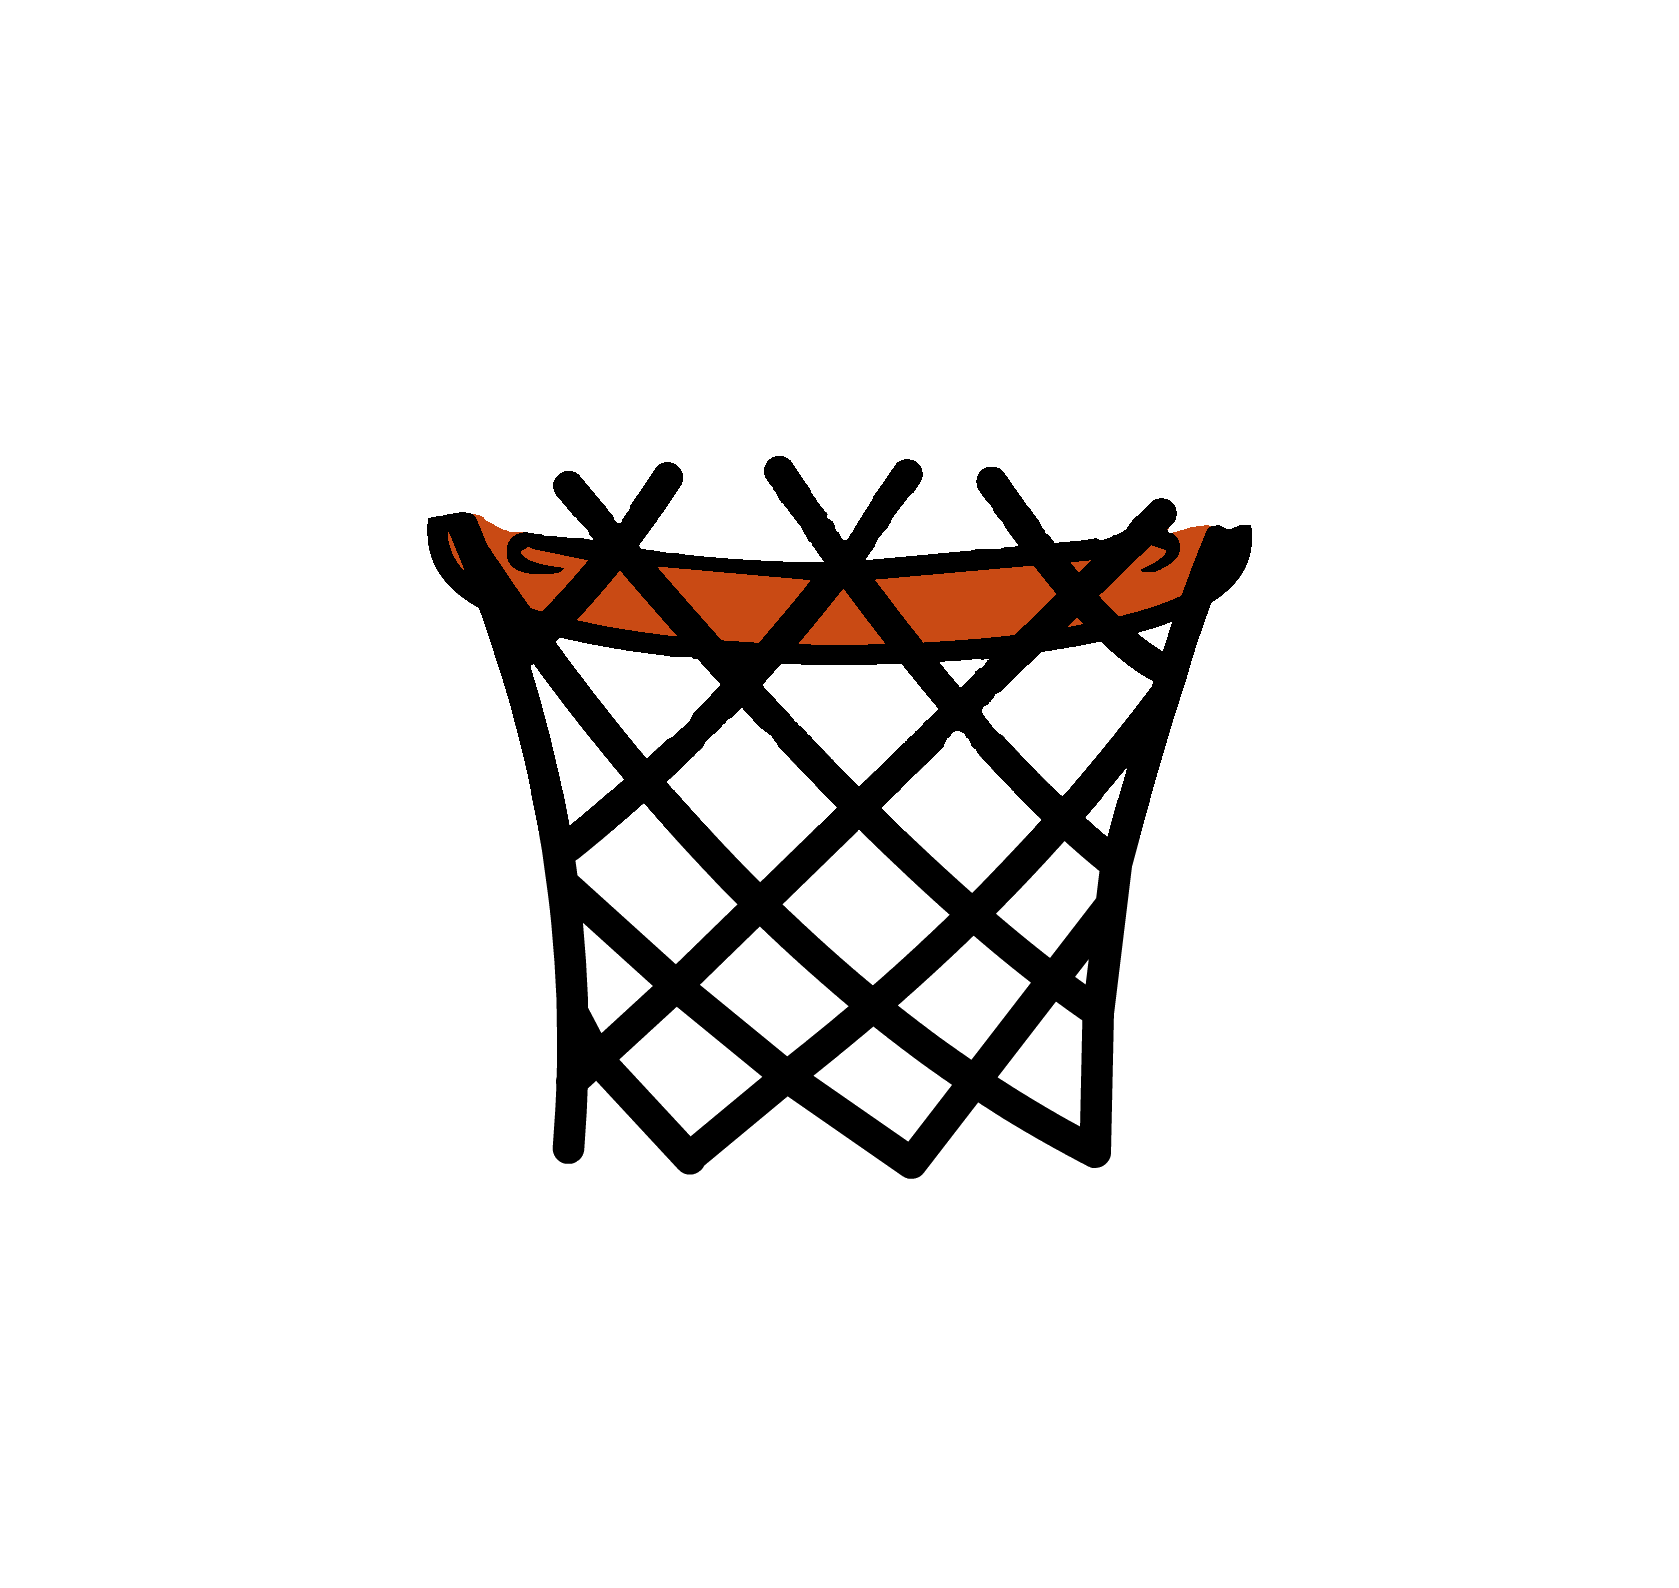
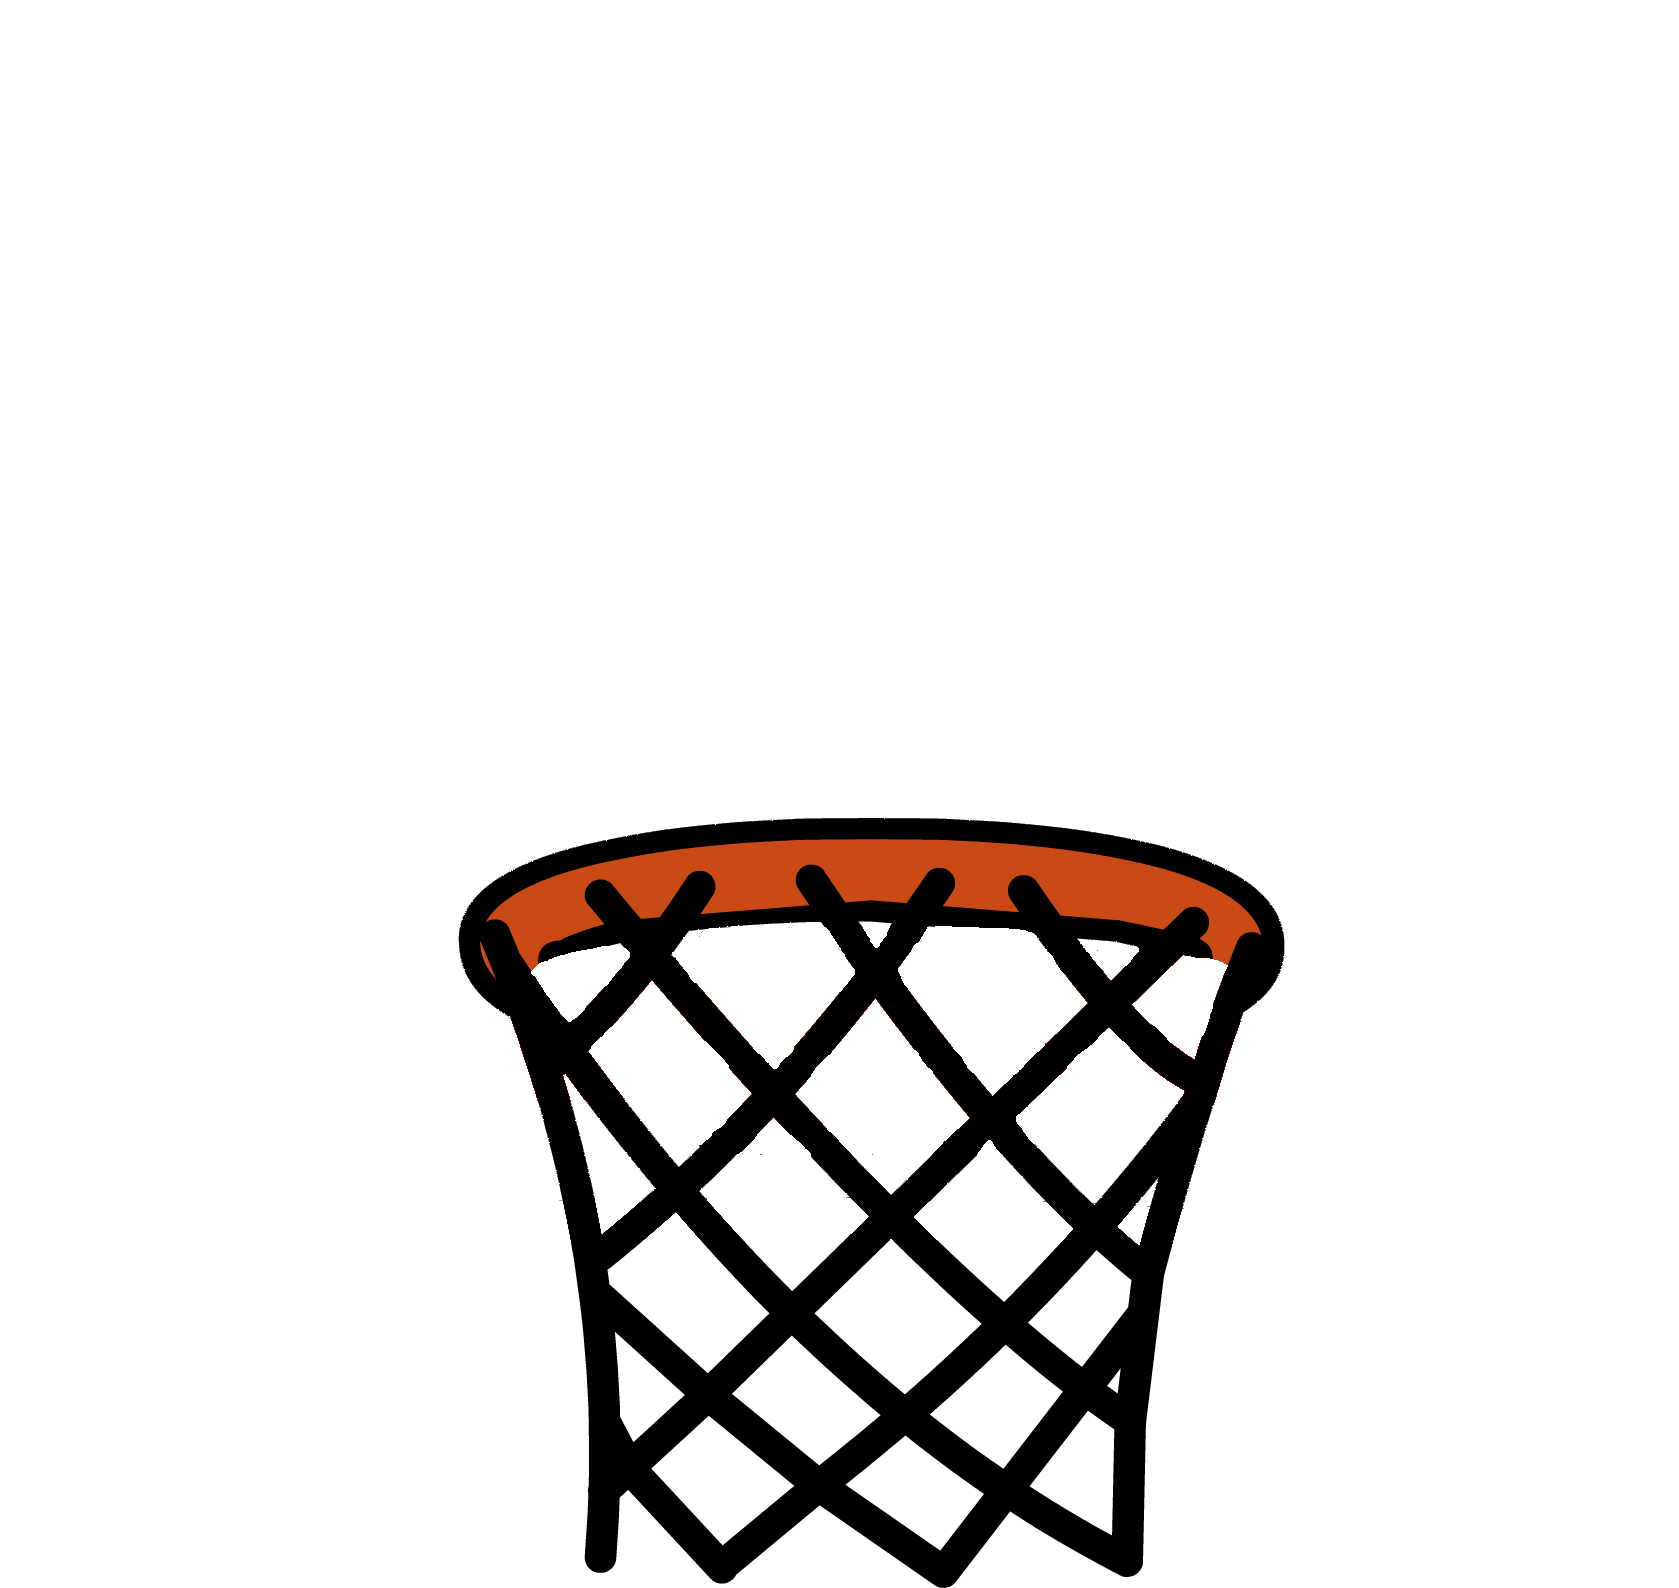
better basket

Changed region(s): [[0.2478, 0.2777, 0.7743, 1.0]]

diff --git a/js/basketball.js b/js/basketball.js
@@ -300,7 +300,7 @@ function basketball_minigame() {
 
     /* MAGIC NUMBERS */
     const net_scale = basket.scale / basket_reference_scale
-    basketball_ctx.drawImage(basket_net_image, basket.x + 9 * net_scale, basket.y + 121 * net_scale, basket.width, basket.height)
+    basketball_ctx.drawImage(basket_net_image, basket.x * net_scale, basket.y * net_scale, basket.width, basket.height)
     requestAnimationFrame(basketball_minigame)
 }
 

diff --git a/css/basketball.css b/css/basketball.css
@@ -4,13 +4,6 @@
     --orange: #ed7800;
 }
 
-html {
-    user-select: none;
-    -moz-user-select: none;
-    -webkit-user-select: none;
-    -ms-user-select: none;
-}
-
 body {
     background-color: var(--light-blue);
     color: var(--orange);
